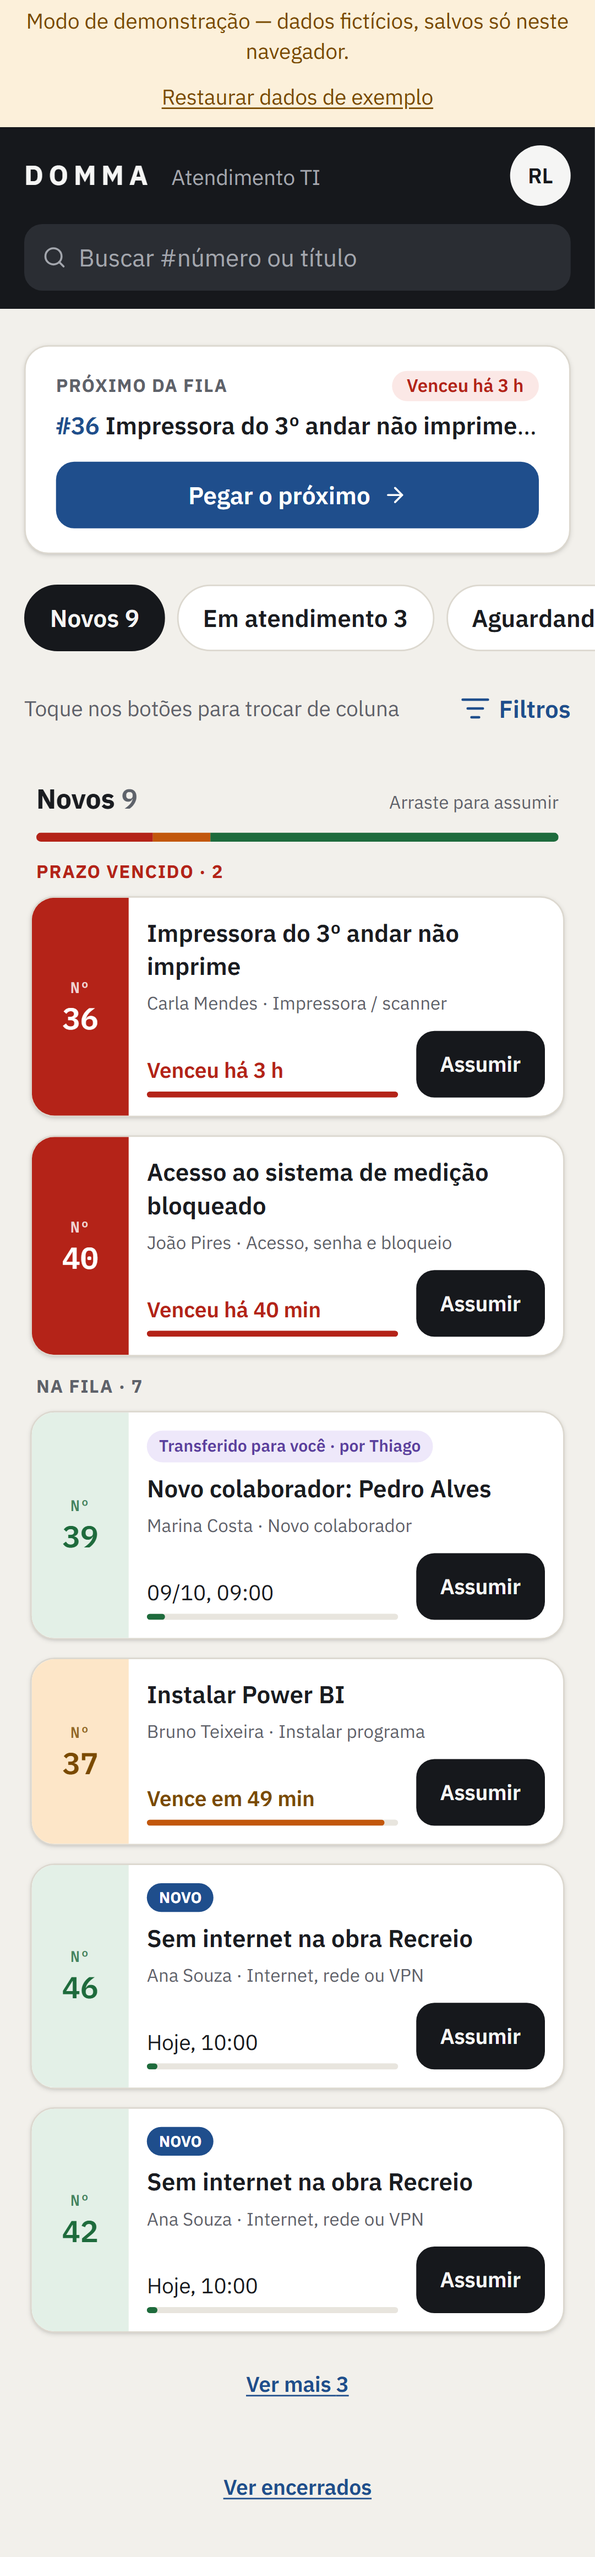
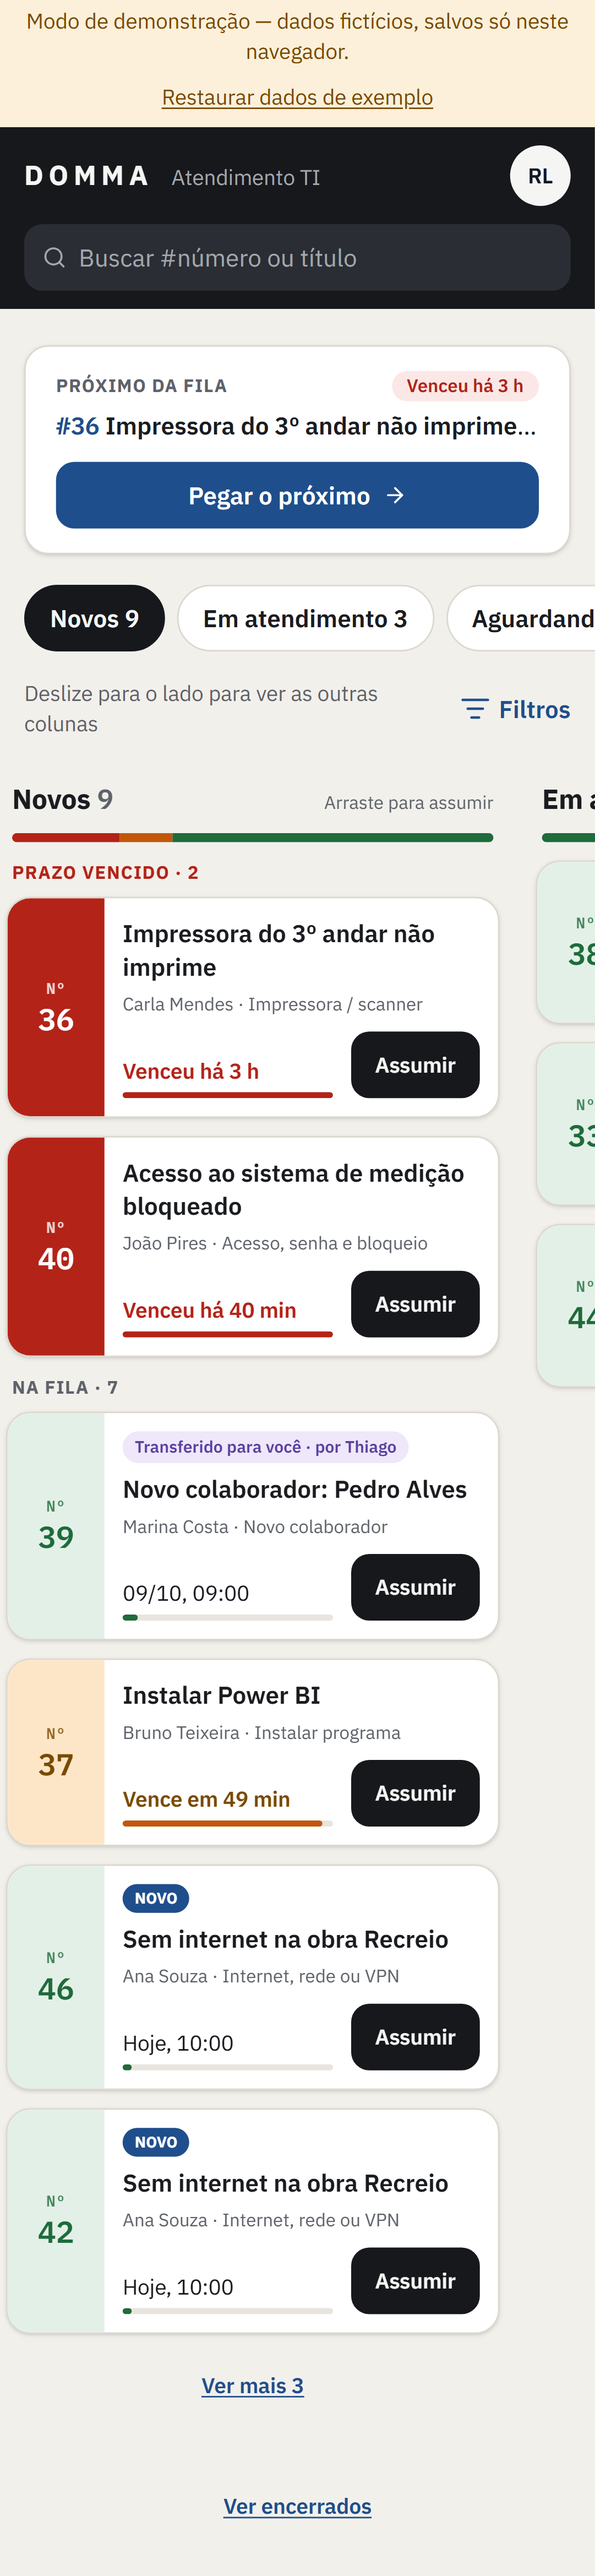
fix(web): quadro da TI sempre em kanban, também em telas estreitas
Abaixo de ~1024 px (janela pela metade, zoom do Windows, celular) o quadro mostrava uma
coluna por vez e não parecia kanban. Agora as colunas ficam sempre lado a lado, com
rolagem lateral; os botões de coluna viram atalho para pular até ela.

diff --git a/apps/web/components/tecnico/QuadroAtendimento.tsx b/apps/web/components/tecnico/QuadroAtendimento.tsx
@@ -151,7 +151,12 @@ export function QuadroAtendimento({ filtros }: { filtros: Filtros }) {
               type="button"
               role="tab"
               aria-selected={colunaCelular === c.id}
-              onClick={() => setColunaCelular(c.id)}
+              onClick={() => {
+                setColunaCelular(c.id);
+                document
+                  .getElementById(`coluna-${c.id}`)
+                  ?.scrollIntoView({ behavior: "smooth", inline: "start", block: "nearest" });
+              }}
               className={`min-h-11 shrink-0 rounded-full border px-4 font-semibold whitespace-nowrap ${
                 colunaCelular === c.id
                   ? "border-barra bg-barra text-sobre-barra"
@@ -163,7 +168,7 @@ export function QuadroAtendimento({ filtros }: { filtros: Filtros }) {
           ))}
         </div>
         <div className="flex items-center justify-between gap-3">
-          <p className="text-sm text-texto-suave">Toque nos botões para trocar de coluna</p>
+          <p className="text-sm text-texto-suave">Deslize para o lado para ver as outras colunas</p>
           <button
             type="button"
             aria-expanded={filtrosAbertos}
@@ -194,7 +199,8 @@ export function QuadroAtendimento({ filtros }: { filtros: Filtros }) {
         </p>
       ) : null}
 
-      <div className="grid items-start gap-5 lg:grid-cols-3">
+      {/* Sempre kanban: colunas lado a lado. Em tela estreita, desliza-se para o lado entre elas. */}
+      <div className="-mx-4 flex snap-x snap-mandatory items-start gap-4 overflow-x-auto px-4 pb-3 lg:mx-0 lg:grid lg:snap-none lg:grid-cols-3 lg:gap-5 lg:overflow-visible lg:px-0 lg:pb-0">
         {COLUNAS.map((c) => (
           <ColunaQuadro
             key={c.id}
@@ -207,7 +213,7 @@ export function QuadroAtendimento({ filtros }: { filtros: Filtros }) {
             destacados={destacados}
             aoAssumir={assumir}
             aoSoltar={soltar}
-            className={colunaCelular === c.id ? "" : "hidden lg:flex"}
+            className="w-[85vw] max-w-[22rem] shrink-0 snap-start lg:w-auto lg:max-w-none"
           />
         ))}
       </div>

diff --git a/apps/web/components/tecnico/ColunaQuadro.tsx b/apps/web/components/tecnico/ColunaQuadro.tsx
@@ -104,6 +104,7 @@ export function ColunaQuadro({
 
   return (
     <section
+      id={`coluna-${id}`}
       aria-label={`${titulo}: ${cartoes.length}`}
       onDragOver={(e) => {
         if (!e.dataTransfer.types.includes(TIPO_ARRASTE)) return;

diff --git a/docs/fases/STATUS.md b/docs/fases/STATUS.md
@@ -17,7 +17,7 @@
 
 ## Pendências externas
 - [ ] App Registration no Entra ID + grupo `Central-Chamados-TI` (claim `groups`, só grupos atribuídos ao app)
-- [ ] **Aprovação do Supabase pela diretoria** (custo / novo projeto) — P-022
+- [ ] **Aprovação do Supabase pela diretoria** — praticamente ok, falta a assinatura (2026-10-06) — P-022
 - [ ] Projetos Supabase `dev` e `prod` em `sa-east-1`
 - [ ] Validar no Supabase hospedado: `grant authenticated to central_api` (migration 0001)
 - [ ] Validar se o Supabase repassa o claim `groups` no login (ADR 0004)
@@ -32,6 +32,8 @@ Mais recente primeiro. Uma linha por sessão que alterou o projeto.
 
 | Data | O que mudou |
 |---|---|
+| 2026-10-06 | Quadro sempre em kanban: abaixo de ~1024 px (janela estreita, zoom, celular) as colunas continuam lado a lado com rolagem lateral; antes mostrava uma coluna por vez e não parecia kanban. |
+| 2026-10-06 | Supabase praticamente aprovado (falta assinatura) — P-022 atualizada. |
 | 2026-10-06 | Área técnica só com o kanban (pedido do dono): saem o modo Lista e a alternância Quadro \| Lista; busca por texto filtra o quadro (`?busca=`, sem acento/maiúscula); "Ver encerrados" vira `/atendimento/encerrados` com cartões. 181 testes unitários e 10 E2E. Docs e prints atualizados. |
 | 2026-10-06 | Testes E2E com Playwright (`pnpm e2e`: 9 fluxos dos critérios de pronto, computador e celular) e prints (`pnpm prints` → `docs/guia/img`). Revisão visual pelos prints: prazos de exemplo em horas úteis, cartão PRAZO sem previsão repetida, indicador de desenvolvimento do Next desligado. `docs/guia-usuario.md` (1 página, com prints). |
 | 2026-10-06 | Entrega 3 Parte B: `/atendimento/[id]` com chat (seletor "Responder à Ana / Nota interna"), cartões AÇÕES (só as permitidas: assumir, concluir, transferir, aguardar/retomar, devolver, cancelar), PRAZO, SOLICITANTE (telefone e e-mail via `obterPerfilCompleto`, só TI), PEDIDO e HISTÓRICO completo (transferências com motivo). Modais de transferir/devolver/cancelar (motivo) e concluir (confirmação). Celular: faixa escura, botões e abas Conversa · Detalhes · Histórico. **1A-3 concluída** (com dados simulados). |

diff --git a/docs/pendencias.md b/docs/pendencias.md
@@ -21,7 +21,7 @@ Lista viva. **Toda sessão** que encontrar um problema ou resolver um item atual
 | P-016 | ⚪ | docs | O `CLAUDE.md` cita `supabase/seed.dev.sql`, que ainda não existe (previsto na 1A-2). | 1A-2 |
 | P-021 | ⚪ | regra | Alerta de chamado `transferido` parado (ideia do dono, sem pressa). | Fase 2 |
 | P-002 | 🟡 | ambiente | Ambiente local de banco (Docker, Supabase CLI) **adiado pelo dono**: nada de banco é executado até a decisão sobre o Supabase (P-022). `uv` e `pnpm` ainda faltam na máquina (o `pnpm` será necessário para o front). | Quando P-022 for decidido |
-| P-022 | 🔴 | ambiente | **Supabase em avaliação pela diretoria** (pagamento e novo projeto). Se não for aprovado, revisar ADRs 0001–0004 (Auth, RLS, Realtime e Storage dependem dele). | Diretoria |
+| P-022 | 🟡 | ambiente | **Supabase praticamente aprovado pela diretoria — falta só a assinatura** (atualizado em 2026-10-06). Depois: criar projetos `dev` e `prod` em `sa-east-1` (ADR 0001) e rodar as migrations (P-023). | Assinatura da diretoria |
 | P-023 | 🟡 | banco | Migrations 0015, 0016 e 0017 e os testes `001` (33), `002` (18), `003` (5) e `004` (6) **nunca foram executados**. Rodar `supabase db reset` + `supabase test db` assim que houver Supabase (local ou nuvem). | Quando P-022/P-002 forem resolvidos |
 | P-026 | 🟡 | api | Previsão de atendimento exibida **antes** de enviar o chamado (mockup): na versão real precisa de endpoint na API (ex.: `GET /categorias/{id}/previsao`) usando `app.adicionar_horas_uteis`. Na simulada já é calculada no front (`lib/dominio/horario-util.ts`, espelho de `app.adicionar_horas_uteis`). | 1A-2 / implementação real |
 | P-027 | ⚪ | docs | Salvar o PDF do mockup em `docs/ui/central-chamados-ui-ux.pdf` (o `docs/ui-ux.md` aponta para ele). | Dono do projeto |

diff --git a/docs/ui-ux.md b/docs/ui-ux.md
@@ -123,7 +123,9 @@ avatar + nome + "3 em atendimento". No celular: barra escura com busca abaixo.
      **PEDIDO** (descrição + anexos), **HISTÓRICO** (lista com horário).
    - **Implementação:** em "Novos", os vencidos vêm primeiro, depois os "Transferido para você", depois o resto por prazo;
      arrastar só com mouse (P-029); o quadro é a visão padrão de `/atendimento`.
-8. **Quadro no celular**: "Próximo da fila" + "Pegar o próximo"; colunas viram pílulas roláveis (Novos 8 · Em atendimento 3 · Aguardando 2) + "Filtros".
+8. **Quadro no celular** — *implementação (2026-10-06):* as colunas ficam sempre lado a lado (kanban) e desliza-se para o lado;
+   as pílulas viram atalho para pular até a coluna. Vale para qualquer tela abaixo de ~1024 px (janela estreita, zoom).
+   Mockup original:: "Próximo da fila" + "Pegar o próximo"; colunas viram pílulas roláveis (Novos 8 · Em atendimento 3 · Aguardando 2) + "Filtros".
 9. **Atendimento no celular**: cabeçalho escuro com "‹ Quadro" e "⋯", canhoto Nº, título, status, prazo;
    botões Concluir · Transferir · Retomar; abas **Conversa · Detalhes · Histórico**; cartão do solicitante com botão de e-mail.
 
